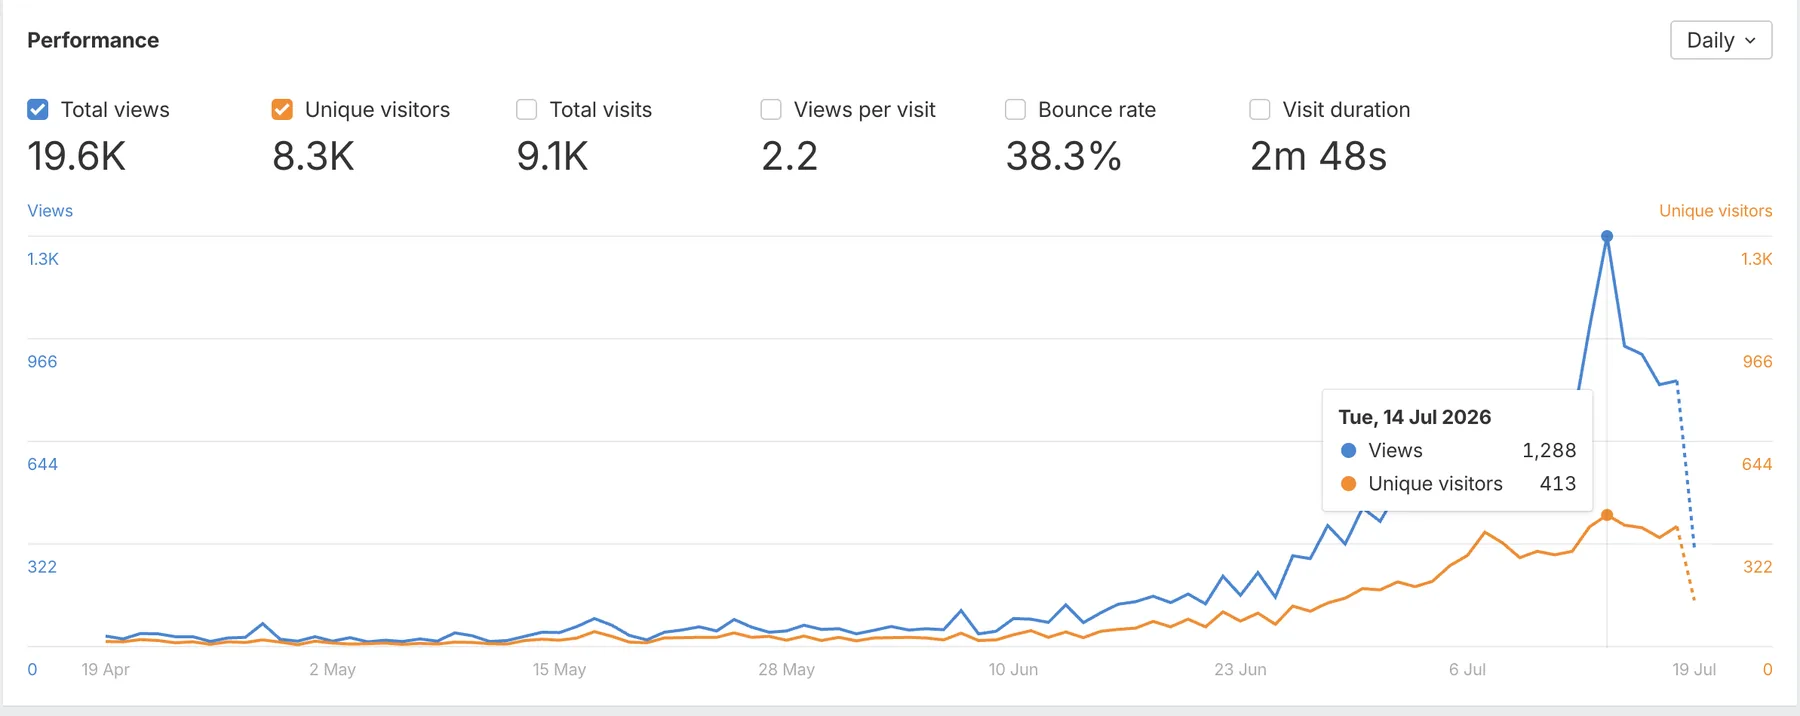
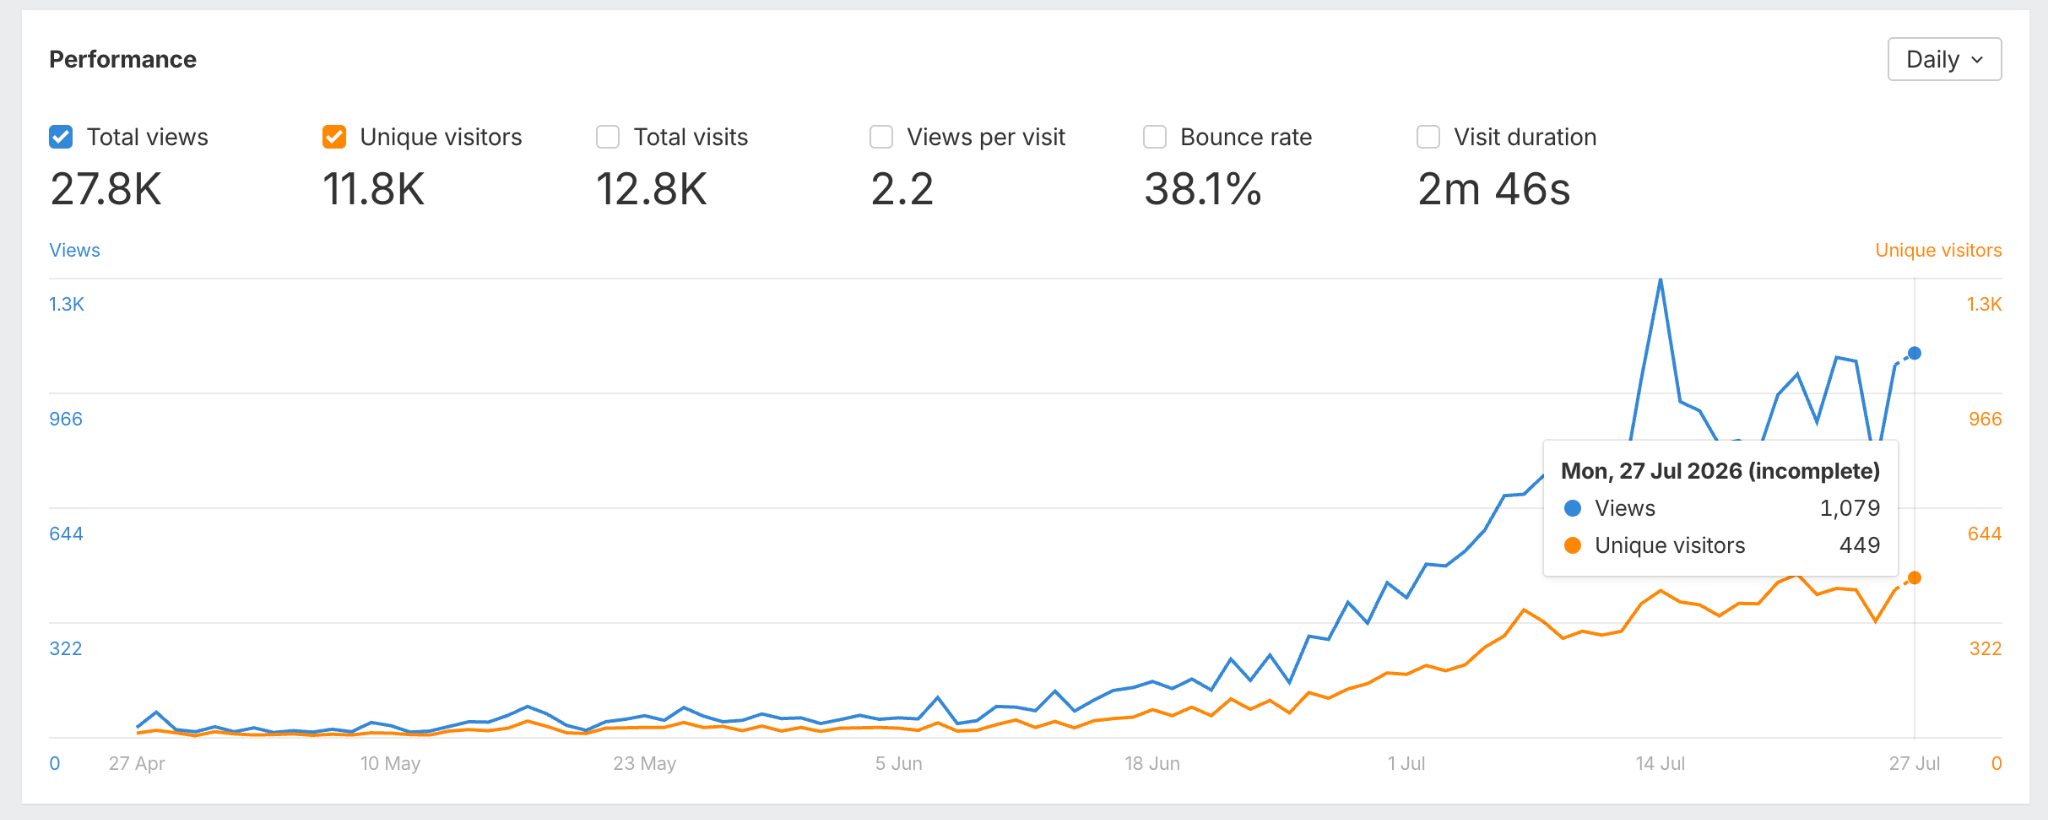
Update beta landing-page Ahrefs screenshot (#16)
Replace the beta proof image with the supplied 27 July 2026 Ahrefs screenshot and update intrinsic dimensions and accessible text.

diff --git a/beta.html b/beta.html
@@ -397,8 +397,8 @@ select.bf-i{cursor:pointer}
     </div>
   </div>
     <div class="wrap" style="max-width:1000px;margin-top:34px">
-      <img src="/assets/ahrefs-freeroomplanner.webp" width="1800" height="716" loading="lazy"
-           alt="Ahrefs Web Analytics for freeroomplanner.com — 19.6K views and 8.3K unique visitors over 90 days, growing from near zero to around 400 a day"
+      <img src="/assets/ahrefs-freeroomplanner.webp" width="2048" height="820" loading="lazy"
+           alt="Ahrefs Web Analytics for freeroomplanner.com — 27.8K total views and 11.8K unique visitors over the last 90 days"
            style="width:100%;height:auto;border-radius:12px;border:1px solid var(--line);box-shadow:0 22px 60px -42px rgba(18,18,18,.35)">
       <div class="mono" style="font-size:11.5px;color:var(--mut2);text-align:center;margin-top:12px;letter-spacing:.03em">The real numbers &#183; Ahrefs &#183; freeroomplanner.com &#183; last 90 days</div>
     </div>
